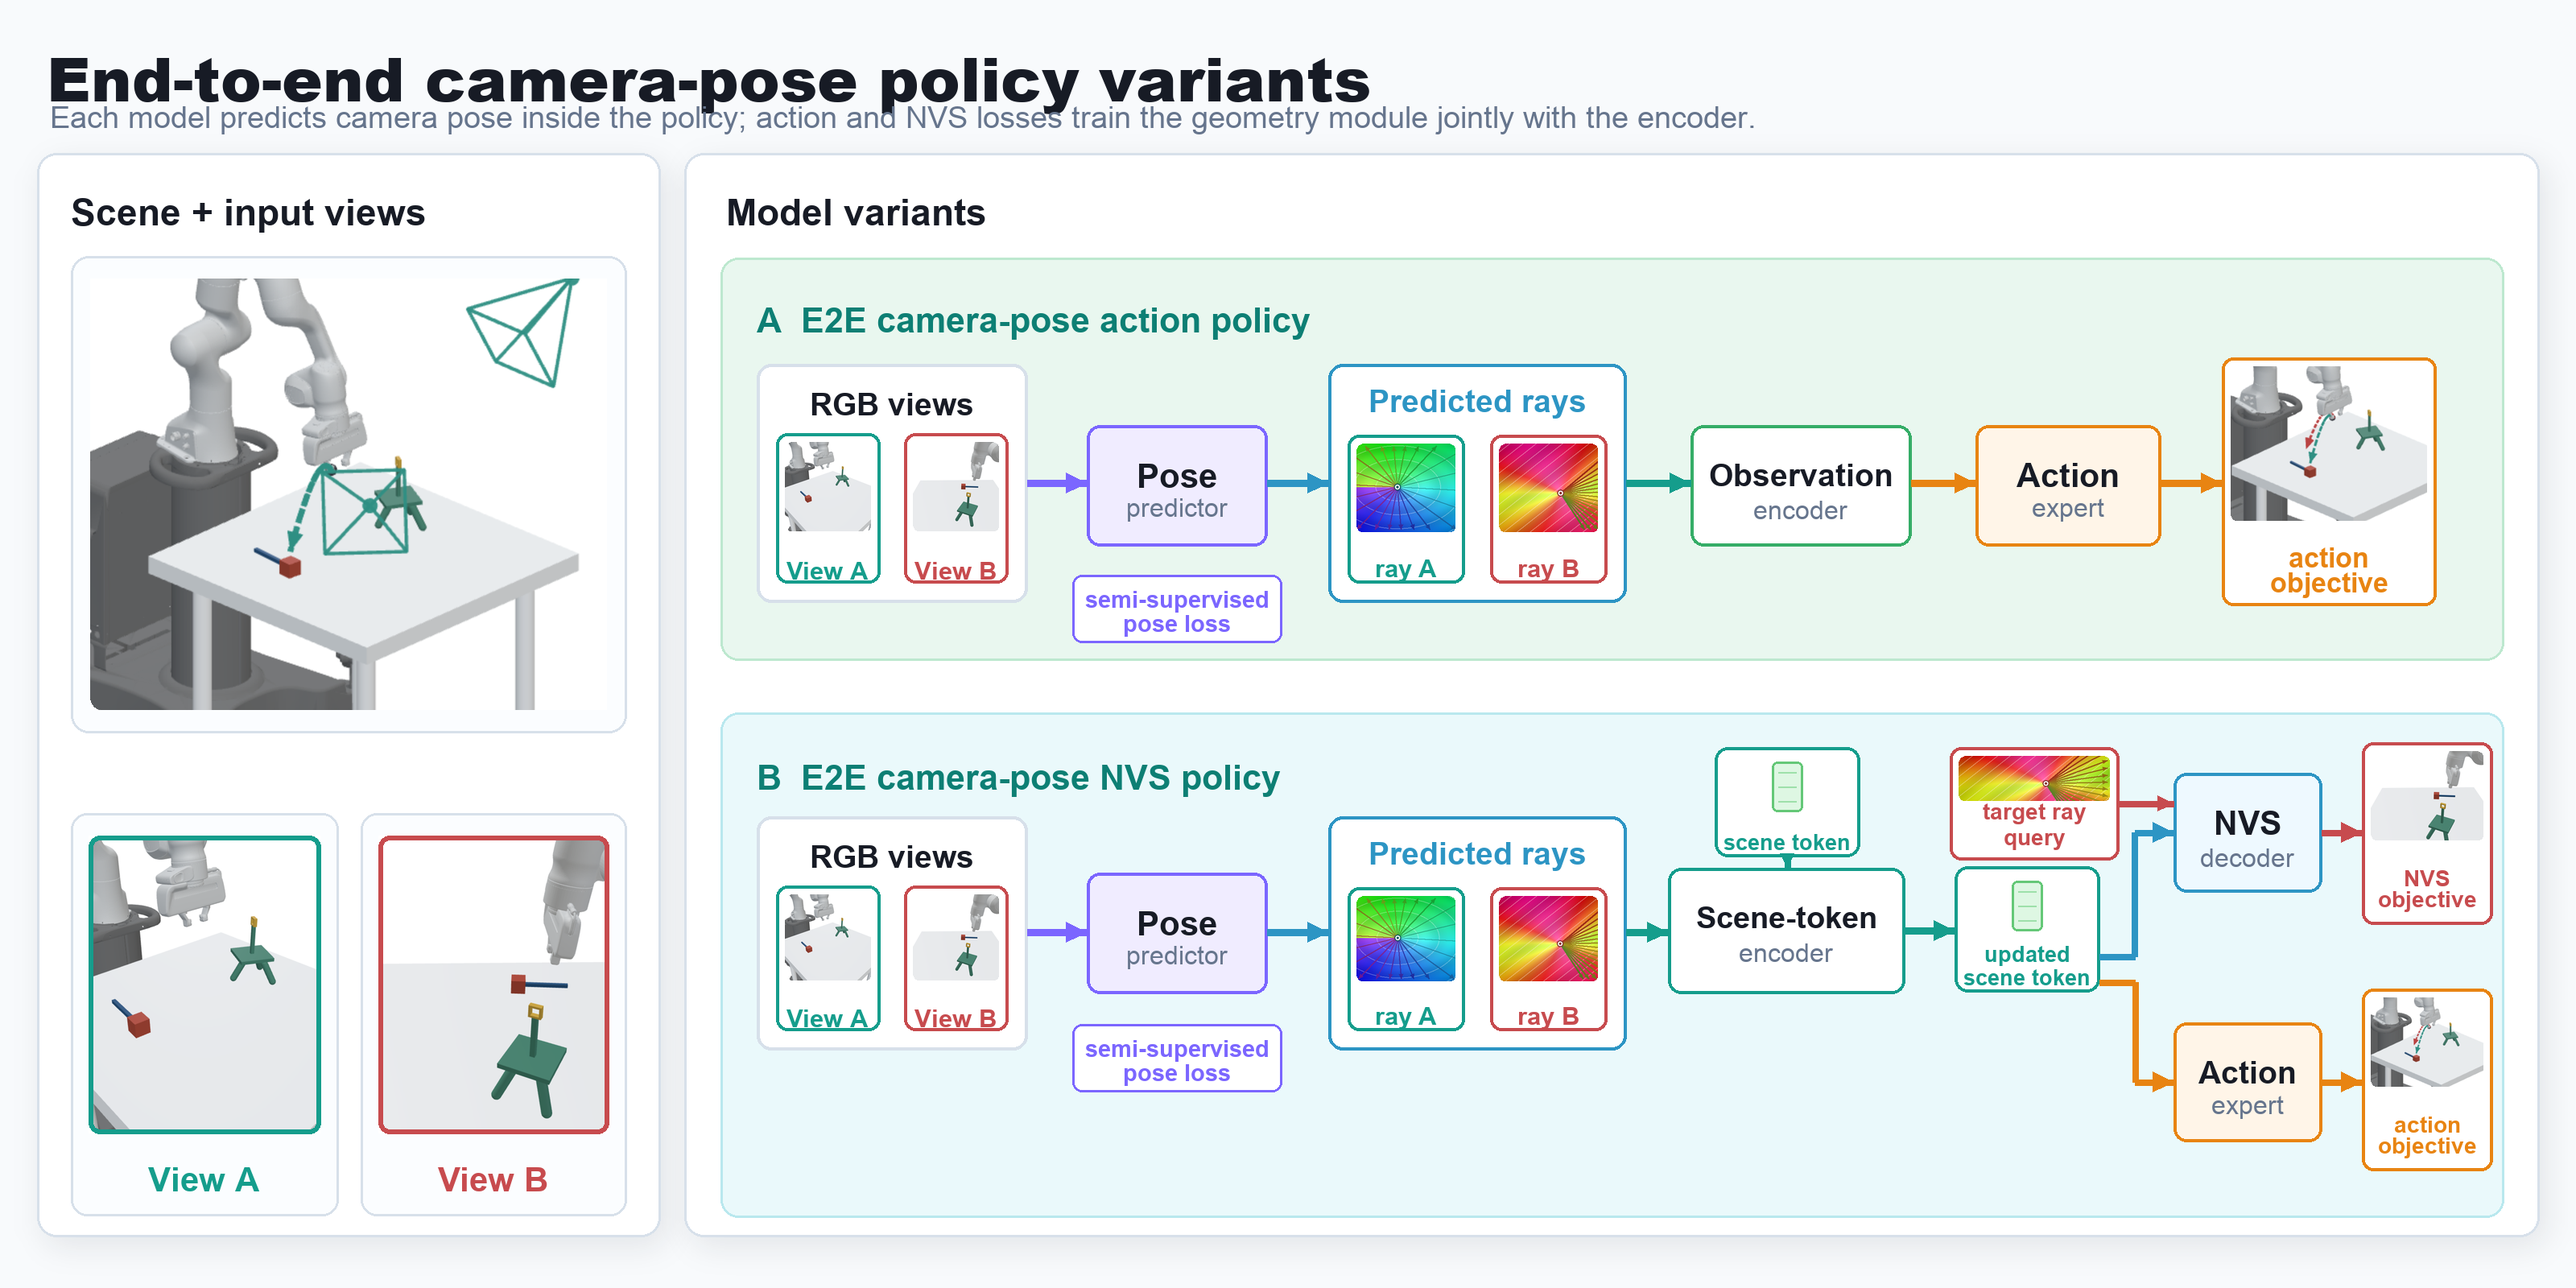
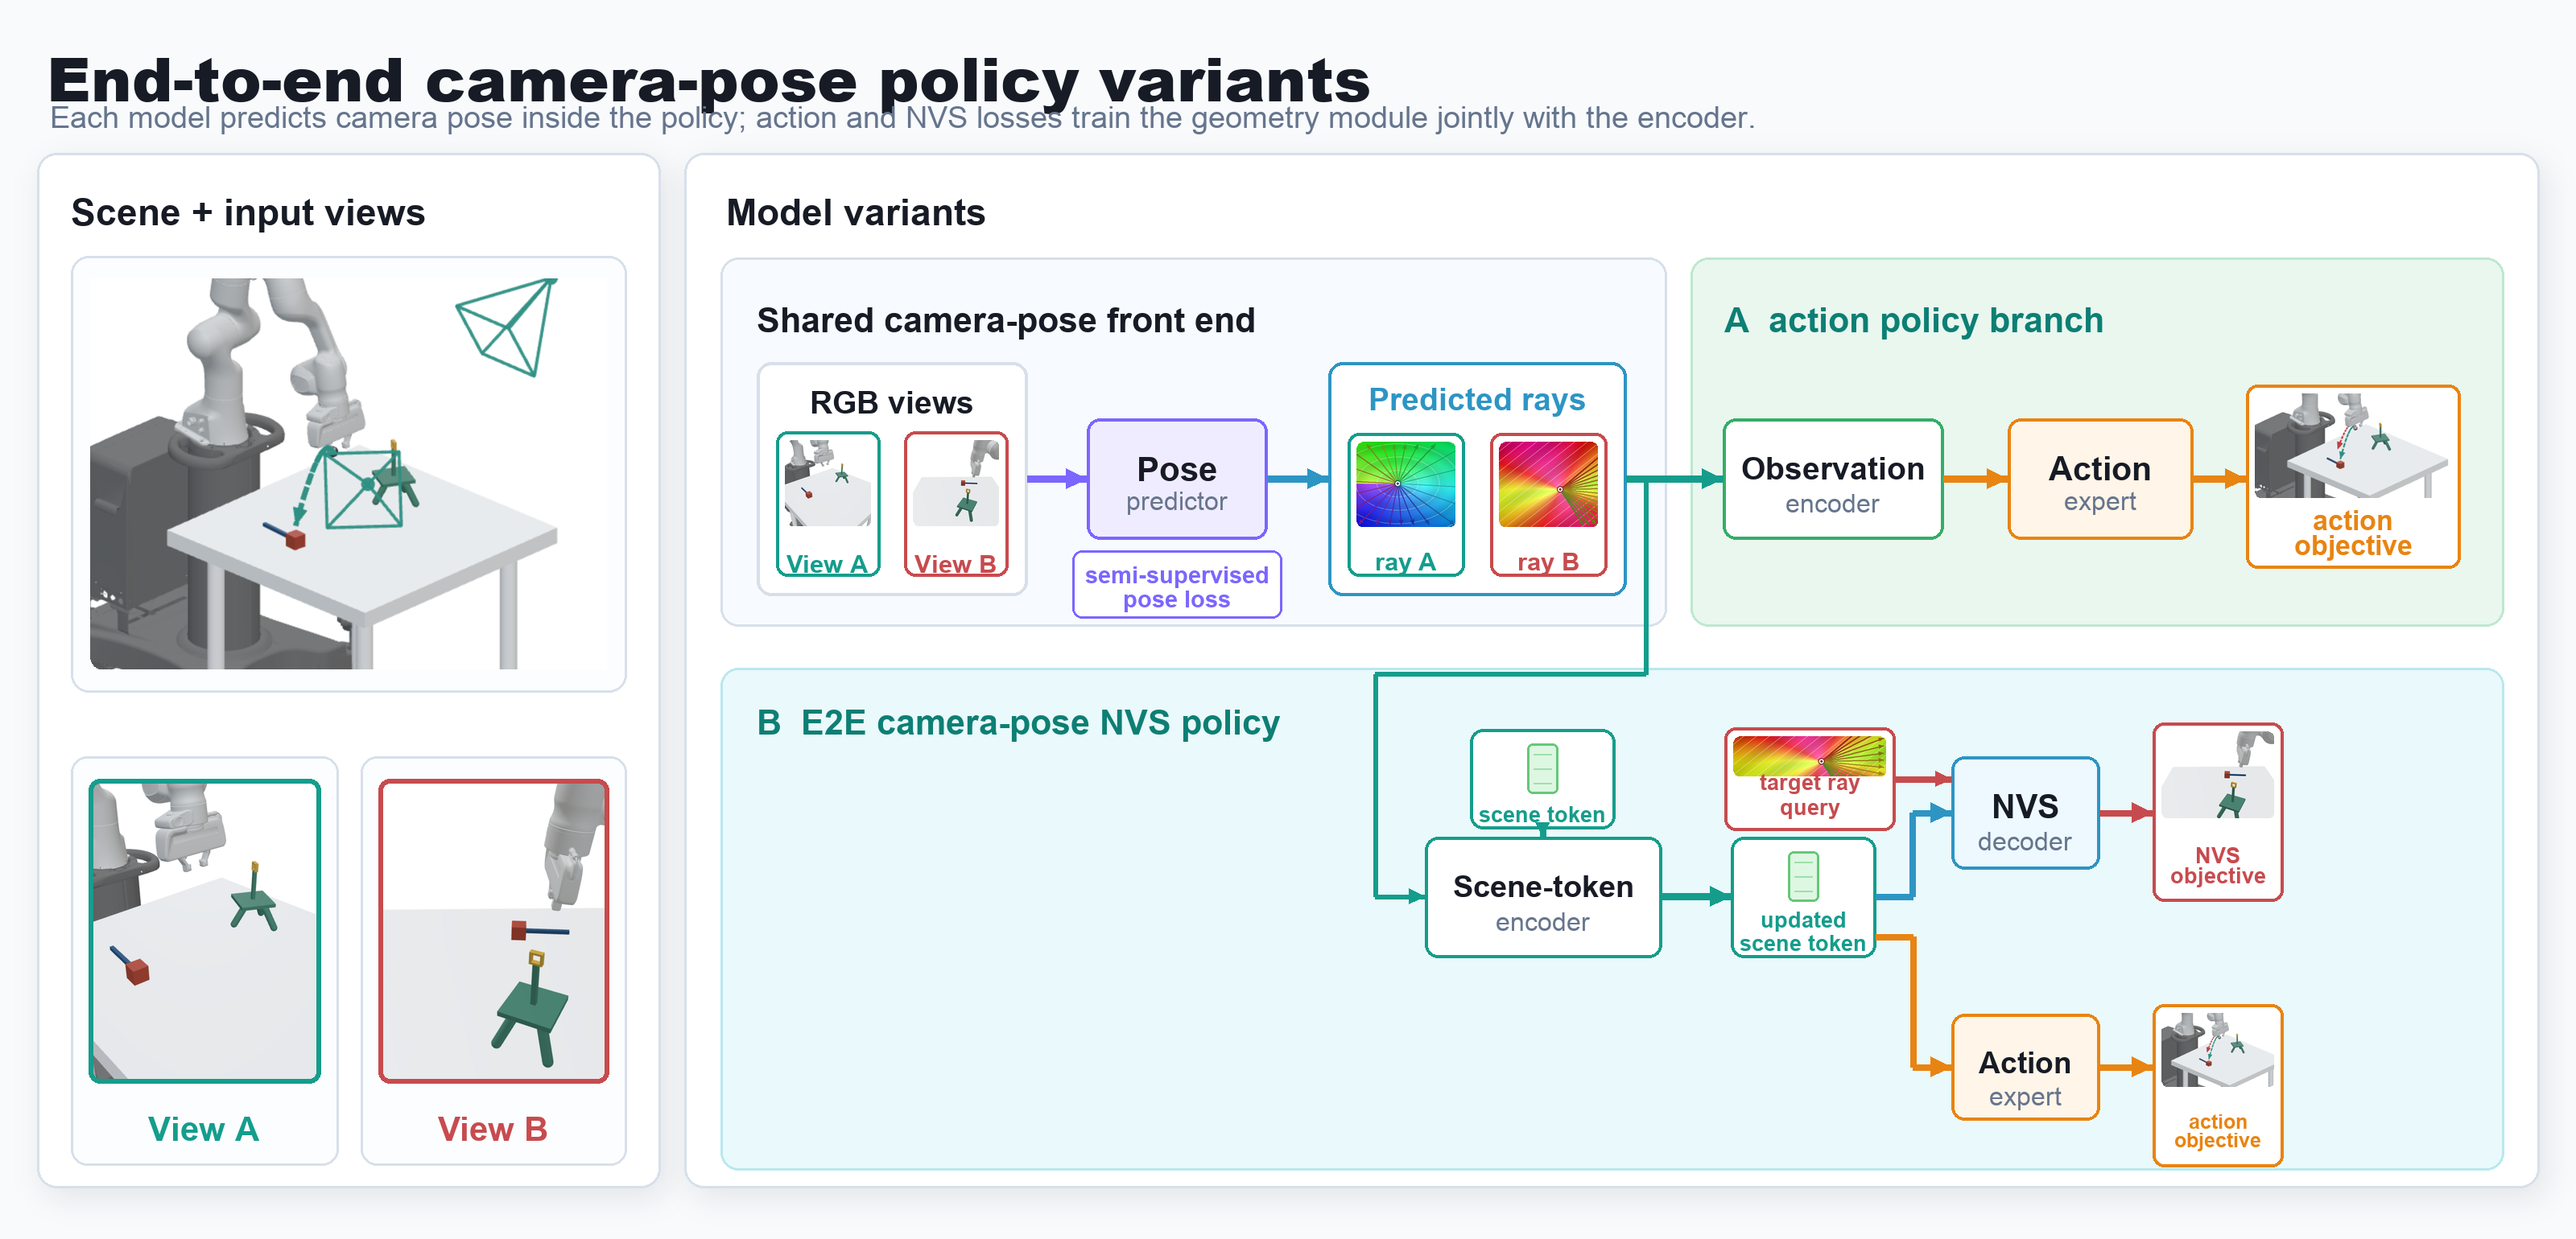
Merge shared pipeline front end

diff --git a/figures/scripts/render_pipeline_figure.py b/figures/scripts/render_pipeline_figure.py
@@ -12,7 +12,7 @@ ROOT = Path(__file__).resolve().parents[1]
 OUT = ROOT / "pipeline.png"
 ASSETS = ROOT / "pipeline_assets"
 
-W, H = 3200, 1600
+W, H = 3200, 1540
 FONT = Path("/System/Library/Fonts/Supplemental/Arial.ttf")
 BOLD = Path("/System/Library/Fonts/Supplemental/Arial Bold.ttf")
 BLACK = Path("/System/Library/Fonts/Supplemental/Arial Black.ttf")
@@ -320,18 +320,18 @@ def main():
     d.text((58, 42), "End-to-end camera-pose policy variants", font=F_TITLE, fill=C_TEXT)
     d.text((62, 124), "Each model predicts camera pose inside the policy; action and NVS losses train the geometry module jointly with the encoder.", font=F_SUB, fill=C_MUTED)
 
-    left = (46, 190, 820, 1536)
-    right = (850, 190, 3154, 1536)
+    left = (46, 190, 820, 1476)
+    right = (850, 190, 3154, 1476)
     shadowed_panel(left)
     shadowed_panel(right)
     d.text((88, 238), "Scene + input views", font=F_PANEL, fill=C_TEXT)
     d.text((902, 238), "Model variants", font=F_PANEL, fill=C_TEXT)
 
-    rounded((88, 318, 778, 910), r=22, fill="#fbfdff", outline=C_LINE, width=3)
-    paste_cover(scene_crop, (112, 346, 754, 882), radius=16)
+    rounded((88, 318, 778, 860), r=22, fill="#fbfdff", outline=C_LINE, width=3)
+    paste_cover(scene_crop, (112, 346, 754, 832), radius=16)
     for box, label, col, im in [
-        ((88, 1010, 420, 1510), "View A", C_TEAL, view_a),
-        ((448, 1010, 778, 1510), "View B", C_RED, view_b),
+        ((88, 940, 420, 1448), "View A", C_TEAL, view_a),
+        ((448, 940, 778, 1448), "View B", C_RED, view_b),
     ]:
         rounded(box, r=20, fill="#fbfdff", outline=C_LINE, width=3)
         x0, y0, x1, y1 = box
@@ -361,46 +361,44 @@ def main():
             rounded((x0 - 18, aux_y, x1 + 18, aux_y + 84), r=12, fill="white", outline=C_PURPLE, width=3)
             text_multiline_fit_center(((x0 + x1) / 2, aux_y + 43), "semi-supervised\npose loss", 31, (x1 - x0) + 10, fill=C_PURPLE, bold=True)
 
-    band_a = (895, 320, 3110, 820)
+    shared = (895, 320, 2070, 778)
+    rounded(shared, r=22, fill="#f7fbff", outline=C_LINE, width=3)
+    d.text((940, 374), "Shared camera-pose front end", font=F_BAND, fill=C_TEXT)
+    rgb_views_card((940, 450, 1276, 740))
+    pose_block((1350, 520, 1574, 670), aux_y=684)
+    ray_maps_card((1650, 450, 2020, 740))
+    arrow([(1276, 595), (1350, 595)], color=C_PURPLE, width=9)
+    arrow([(1574, 595), (1650, 595)], color=C_BLUE, width=9)
+
+    band_a = (2100, 320, 3110, 778)
     rounded(band_a, r=22, fill=C_GREEN_FILL, outline=C_GREEN_STROKE, width=3)
-    d.text((940, 374), "A  E2E camera-pose action policy", font=F_BAND, fill=C_TEAL_DARK)
-    rgb_views_card((940, 452, 1276, 748))
-    pose_block((1350, 528, 1574, 678), aux_y=714)
-    ray_maps_card((1650, 452, 2020, 748))
-    node((2100, 528, 2374, 678), "Observation", "encoder", stroke="#35ad67", fill="white", title_size=39)
-    node((2454, 528, 2684, 678), "Action", "expert", stroke=C_ORANGE, fill=C_ORANGE_FILL, title_size=41)
-    labeled_tile(action_crop, (2760, 444, 3026, 752), "action\nobjective", C_ORANGE, label_size=34, image_frac=0.66)
-    arrow([(1276, 600), (1350, 600)], color=C_PURPLE, width=9)
-    arrow([(1574, 600), (1650, 600)], color=C_BLUE, width=9)
-    arrow([(2020, 600), (2100, 600)], color=C_TEAL, width=9)
-    arrow([(2374, 600), (2454, 600)], color=C_ORANGE, width=9)
-    arrow([(2684, 600), (2760, 600)], color=C_ORANGE, width=9)
+    d.text((2142, 374), "A  action policy branch", font=F_BAND, fill=C_TEAL_DARK)
+    node((2140, 520, 2414, 670), "Observation", "encoder", stroke="#35ad67", fill="white", title_size=39)
+    node((2494, 520, 2724, 670), "Action", "expert", stroke=C_ORANGE, fill=C_ORANGE_FILL, title_size=41)
+    labeled_tile(action_crop, (2790, 478, 3056, 706), "action\nobjective", C_ORANGE, label_size=34, image_frac=0.62)
+    arrow([(2020, 595), (2140, 595)], color=C_TEAL, width=9)
+    arrow([(2414, 595), (2494, 595)], color=C_ORANGE, width=9)
+    arrow([(2724, 595), (2790, 595)], color=C_ORANGE, width=9)
 
-    band_b = (895, 885, 3110, 1512)
+    band_b = (895, 830, 3110, 1454)
     rounded(band_b, r=22, fill=C_CYAN_FILL, outline=C_CYAN_STROKE, width=3)
-    d.text((940, 942), "B  E2E camera-pose NVS policy", font=F_BAND, fill=C_TEAL_DARK)
-    rgb_views_card((940, 1014, 1276, 1304))
-    pose_block((1350, 1084, 1574, 1234), aux_y=1272)
-    ray_maps_card((1650, 1014, 2020, 1304))
-    arrow([(1276, 1158), (1350, 1158)], color=C_PURPLE, width=9)
-    arrow([(1574, 1158), (1650, 1158)], color=C_BLUE, width=9)
-
-    node((2072, 1078, 2366, 1234), "Scene-token", "encoder", stroke=C_TEAL, fill="white", title_size=38)
-    scene_token_glyph((2130, 928, 2310, 1064), "scene token", label_size=29)
-    scene_token_glyph((2428, 1076, 2608, 1232), "updated\nscene token", label_size=31)
-    labeled_tile(ray_b, (2422, 928, 2632, 1068), "target ray\nquery", C_RED, label_color=C_RED, label_size=28, image_frac=0.48)
-    node((2700, 960, 2884, 1108), "NVS", "decoder", stroke=C_BLUE, fill="#eef9ff", title_size=41)
-    labeled_tile(view_b, (2934, 922, 3096, 1148), "NVS\nobjective", C_RED, label_size=28, image_frac=0.54)
-    node((2700, 1270, 2884, 1418), "Action", "expert", stroke=C_ORANGE, fill=C_ORANGE_FILL, title_size=39)
-    labeled_tile(action_crop, (2934, 1228, 3096, 1454), "action\nobjective", C_ORANGE, label_size=28, image_frac=0.54)
-    arrow([(2020, 1158), (2072, 1158)], color=C_TEAL, width=9)
-    arrow([(2220, 1064), (2220, 1078)], color=C_TEAL, width=8, head=18)
-    arrow([(2366, 1156), (2428, 1156)], color=C_TEAL, width=9)
-    arrow([(2608, 1188), (2652, 1188), (2652, 1034), (2700, 1034)], color=C_BLUE, width=8)
-    arrow([(2632, 998), (2700, 998)], color=C_RED, width=8, head=20)
-    arrow([(2884, 1034), (2934, 1034)], color=C_RED, width=8)
-    arrow([(2608, 1220), (2652, 1220), (2652, 1344), (2700, 1344)], color=C_ORANGE, width=8)
-    arrow([(2884, 1344), (2934, 1344)], color=C_ORANGE, width=8)
+    d.text((940, 874), "B  E2E camera-pose NVS policy", font=F_BAND, fill=C_TEAL_DARK)
+    node((1770, 1040, 2064, 1190), "Scene-token", "encoder", stroke=C_TEAL, fill="white", title_size=38)
+    scene_token_glyph((1826, 906, 2006, 1030), "scene token", label_size=27)
+    scene_token_glyph((2150, 1040, 2330, 1190), "updated\nscene token", label_size=31)
+    labeled_tile(ray_b, (2142, 904, 2354, 1032), "target ray\nquery", C_RED, label_color=C_RED, label_size=27, image_frac=0.48)
+    node((2424, 940, 2608, 1080), "NVS", "decoder", stroke=C_BLUE, fill="#eef9ff", title_size=41)
+    labeled_tile(view_b, (2674, 898, 2836, 1120), "NVS\nobjective", C_RED, label_size=27, image_frac=0.54)
+    node((2424, 1260, 2608, 1392), "Action", "expert", stroke=C_ORANGE, fill=C_ORANGE_FILL, title_size=37)
+    labeled_tile(action_crop, (2674, 1248, 2836, 1450), "action\nobjective", C_ORANGE, label_size=25, image_frac=0.51)
+    arrow([(2020, 595), (2044, 595), (2044, 838), (1708, 838), (1708, 1114), (1770, 1114)], color=C_TEAL, width=6, head=20)
+    arrow([(1916, 1030), (1916, 1040)], color=C_TEAL, width=8, head=18)
+    arrow([(2064, 1114), (2150, 1114)], color=C_TEAL, width=9)
+    arrow([(2330, 1114), (2376, 1114), (2376, 1010), (2424, 1010)], color=C_BLUE, width=8)
+    arrow([(2354, 968), (2424, 968)], color=C_RED, width=8, head=20)
+    arrow([(2608, 1010), (2674, 1010)], color=C_RED, width=8)
+    arrow([(2330, 1164), (2376, 1164), (2376, 1326), (2424, 1326)], color=C_ORANGE, width=8)
+    arrow([(2608, 1326), (2674, 1326)], color=C_ORANGE, width=8)
 
     img.save(OUT, quality=98)
 
